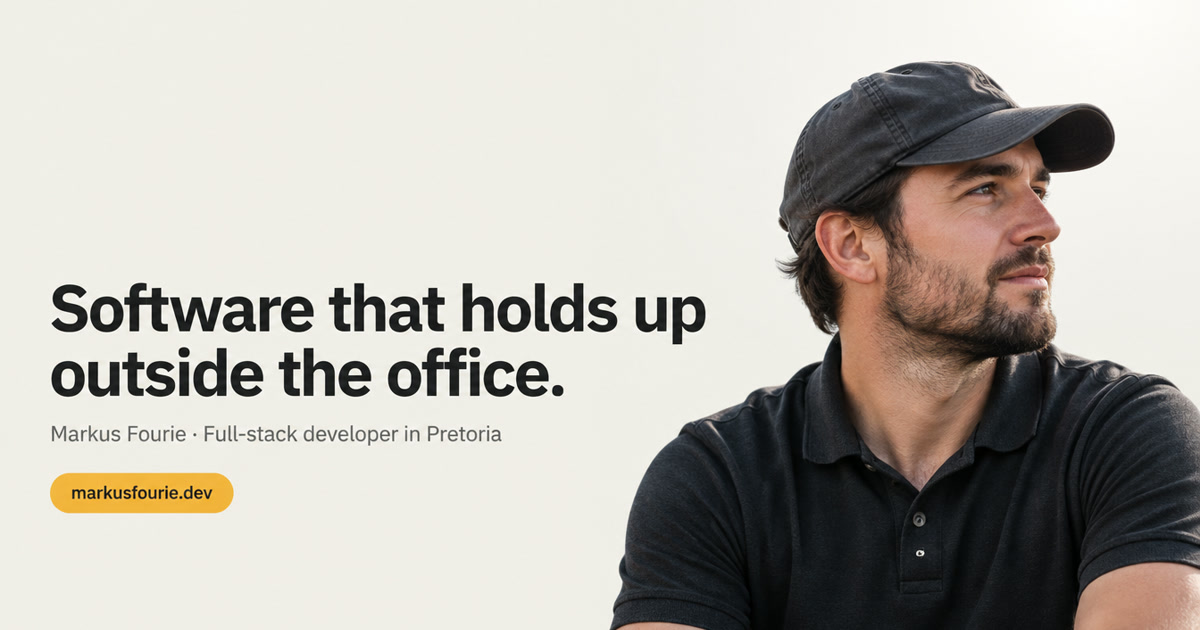
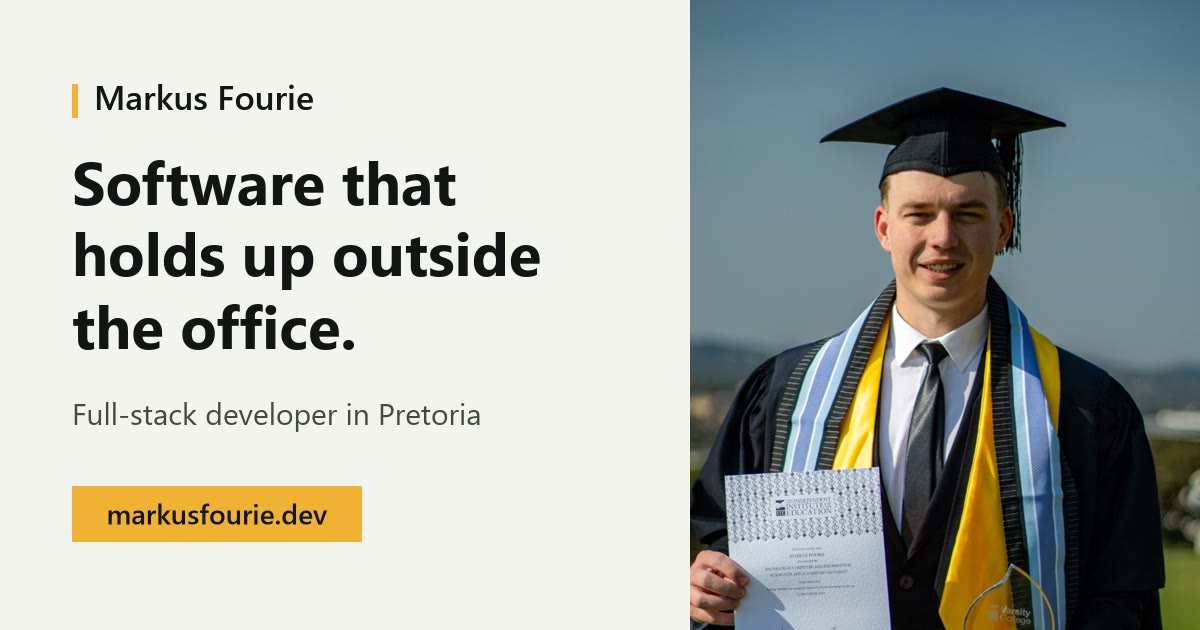
fix: share image now shows Markus (graduation photo), cache-busted

diff --git a/index.html b/index.html
@@ -19,7 +19,9 @@
     <meta property="og:url" content="https://markusfourie.dev/" />
     <meta property="og:title" content="Markus Fourie · Full-stack developer in Pretoria" />
     <meta property="og:description" content="Software that holds up outside the office. React, TypeScript, ASP.NET Core, Node and Postgres." />
-    <meta property="og:image" content="https://markusfourie.dev/og.jpg" />
+    <meta property="og:image" content="https://markusfourie.dev/og.jpg?v=2" />
+    <meta property="og:image:width" content="1200" />
+    <meta property="og:image:height" content="630" />
     <meta property="og:image:alt" content="Markus Fourie, full-stack developer in Pretoria" />
     <meta property="og:site_name" content="Markus Fourie Portfolio" />
     <meta property="og:locale" content="en_ZA" />
@@ -29,7 +31,7 @@
     <meta property="twitter:url" content="https://markusfourie.dev/" />
     <meta property="twitter:title" content="Markus Fourie · Full-stack developer in Pretoria" />
     <meta property="twitter:description" content="Software that holds up outside the office." />
-    <meta property="twitter:image" content="https://markusfourie.dev/og.jpg" />
+    <meta property="twitter:image" content="https://markusfourie.dev/og.jpg?v=2" />
     <meta property="twitter:image:alt" content="Markus Fourie, full-stack developer in Pretoria" />
     <meta property="twitter:creator" content="@ThePedalingDev" />
     
